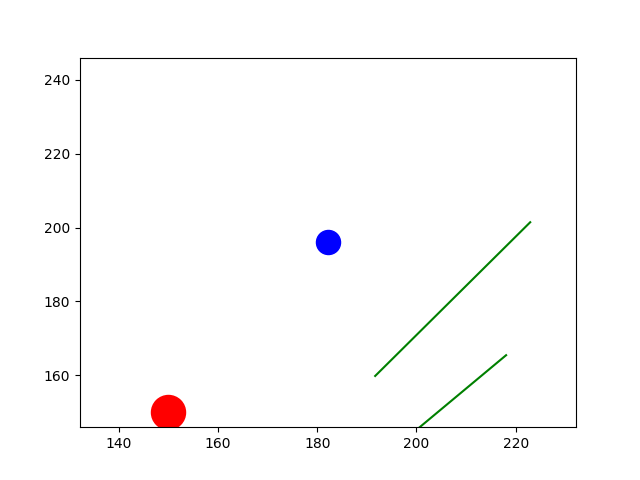
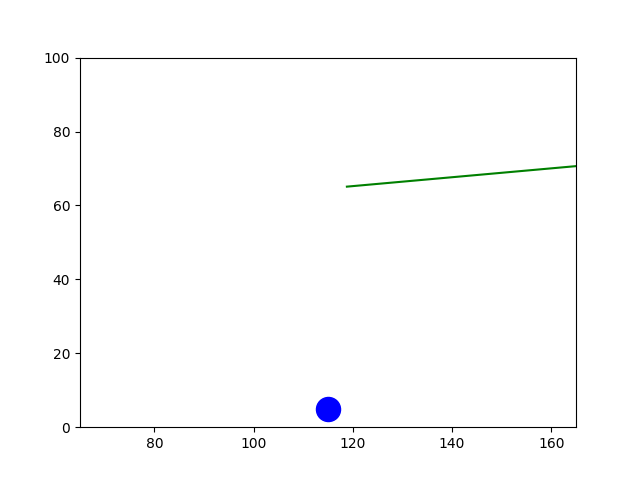
プロンプト文修正

diff --git a/multimodal/multimodalagent.py b/multimodal/multimodalagent.py
@@ -40,6 +40,9 @@ class SimulateLLMAgent:
         with open(self.log_conversation, 'w') as log_file:
             log_file.write('')
 
+        with open(self.replay_file, 'w') as log_file:
+            log_file.write('')
+
         print("SimulateLLMAgent initialized.")
 
     def log(self, filename, message):
@@ -116,6 +119,7 @@ class SimulateLLMAgent:
         return (
             "You are responsible for determining the direction an agent should move based on its current position and the target position. Follow these guidelines:\n"
             "- The agent must reach the target.\n"
+            "- As long as this conversation continues, the agent you control must continue to face the target."
             "- Respond with a single word: 'up', 'down', 'right', or 'left'. Do not use punctuation or extra explanations.\n"
             "- Avoid any obstacles in the nearby area.\n"
             "- The agent's color is blue, the target's color is red, and obstacles' color is green.\n"
@@ -164,6 +168,21 @@ class SimulateLLMAgent:
                 y_min = max(agent_position[1] - 50, 0)
                 y_max = min(agent_position[1] + 50, self.wall_y)
 
+                # 境界にエージェントがある場合に中心にする
+                if agent_position[0] < 50:
+                    x_min = 0
+                    x_max = 100
+                elif agent_position[0] > self.wall_x - 50:
+                    x_min = self.wall_x - 100
+                    x_max = self.wall_x
+
+                if agent_position[1] < 50:
+                    y_min = 0
+                    y_max = 100
+                elif agent_position[1] > self.wall_y - 50:
+                    y_min = self.wall_y - 100
+                    y_max = self.wall_y
+
                 ax.set_xlim(x_min, x_max)
                 ax.set_ylim(y_min, y_max)
 
@@ -209,7 +228,7 @@ class SimulateLLMAgent:
                 if np.array_equal(self.positions[i], original_position) and self.control_mode == "LLM":
                     print("no change counter:", self.no_change_counter)
                     self.no_change_counter[i] += 1
-                    if self.no_change_counter[i] >= 2:  # n回の座標移動なし
+                    if self.no_change_counter[i] >= 1:  # n回の座標移動なし
                         previous_direction = self.previous_direction[i]
                         reason_prompt = (
                             f"The agent's position has not changed for {self.no_change_counter[i]} updates.\n"
@@ -220,7 +239,7 @@ class SimulateLLMAgent:
                         complete_prompt = f"Previous Logs:\n {previous_logs}\nCurrent Question:\n{reason_prompt}"
                         # ============================================================
                         # 理由を聞く仕組みをここに作る
-                        reason = self.llm_model.get_output(reason_prompt, image="current_state.png")
+                        reason = self.llm_model.get_output(complete_prompt, image="current_state.png")
                         # ============================================================
 
                         self.add_log(f"user: {reason_prompt}\n")
